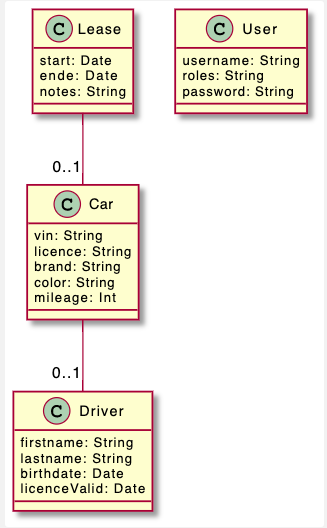
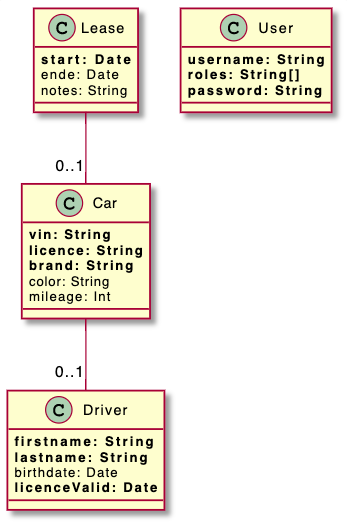
img for plantuml

Changed region(s): [[0.0, 0.0, 0.5199, 1.0], [0.4893, 0.0, 0.9786, 0.2438]]

diff --git a/docs/generate-uml.md b/docs/generate-uml.md
@@ -56,39 +56,4 @@ class User {
 
 If you use any ot the visualisation tools offered by PlantUML (e.g. the VSCode plugin) you will get the following UML class diagram: 
 
-```plantuml
-@startuml domain
-
-class Car {
-  **vin: String**
-  **licence: String**
-  **brand: String**
-  color: String
-  mileage: Int
-}
-
-Car -- "0..1" Driver
-
-class Driver {
-  **firstname: String**
-  **lastname: String**
-  birthdate: Date
-  **licenceValid: Date**
-}
-
-class Lease {
-  **start: Date**
-  ende: Date
-  notes: String
-}
-
-Lease -- "0..1" Car
-
-class User {
-  **username: String**
-  **roles: String[]**
-  **password: String**
-}
-
-@enduml
-```
+![Schema](./img/plantuml.png)
